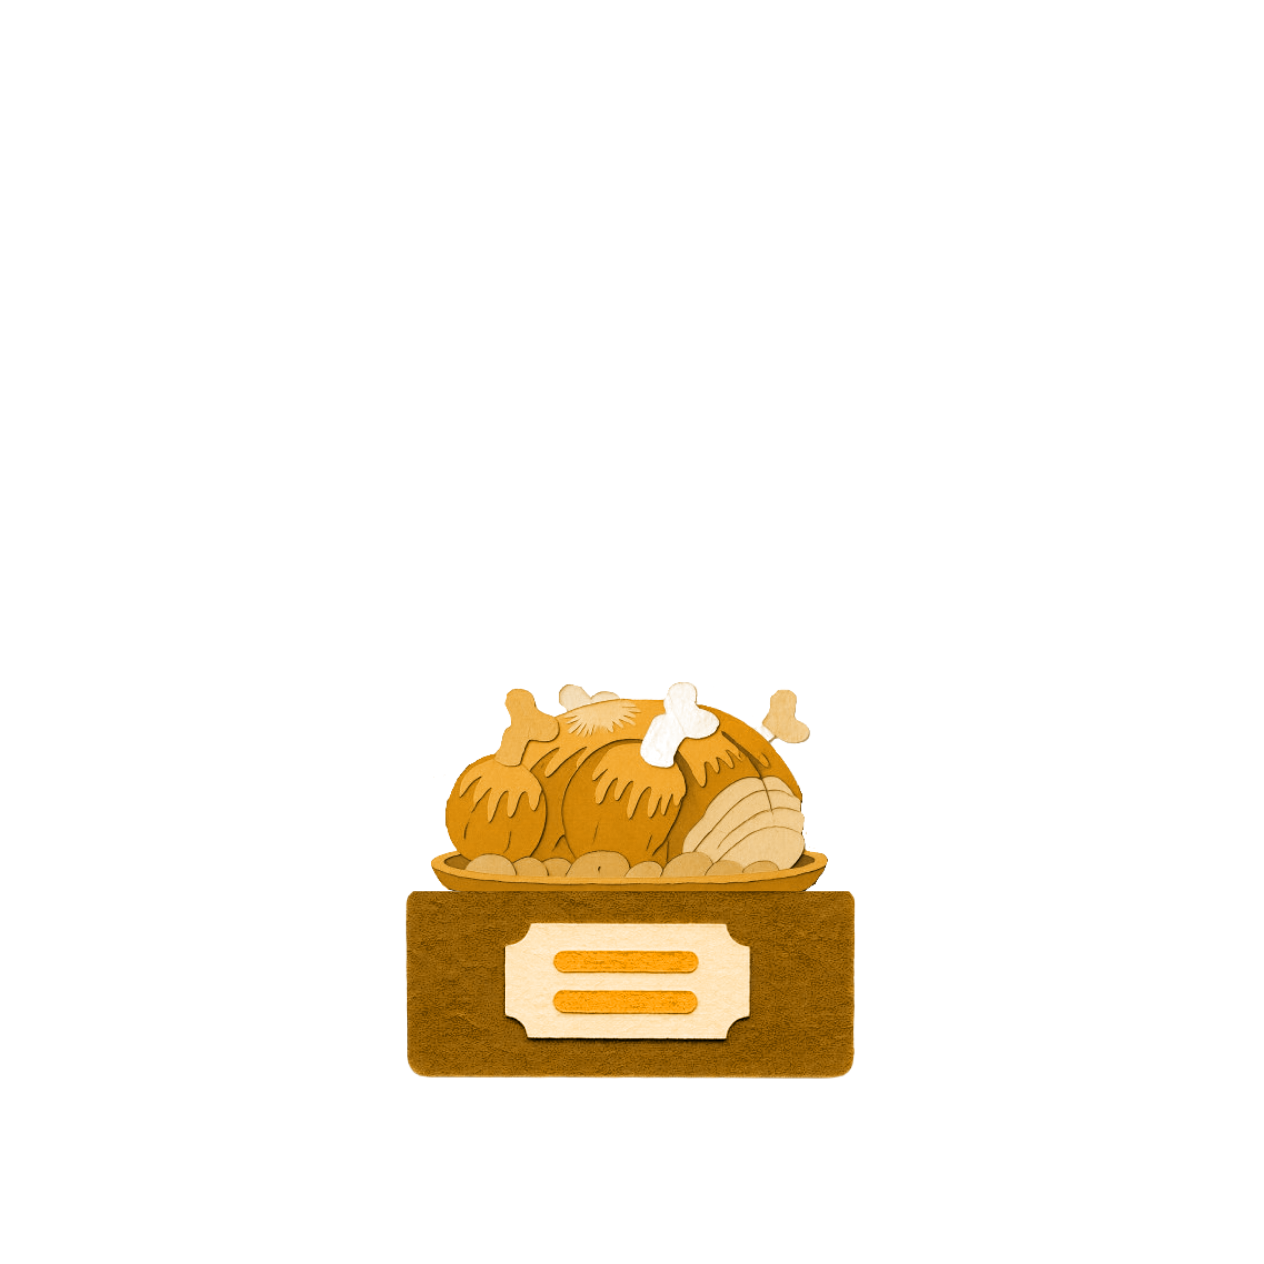
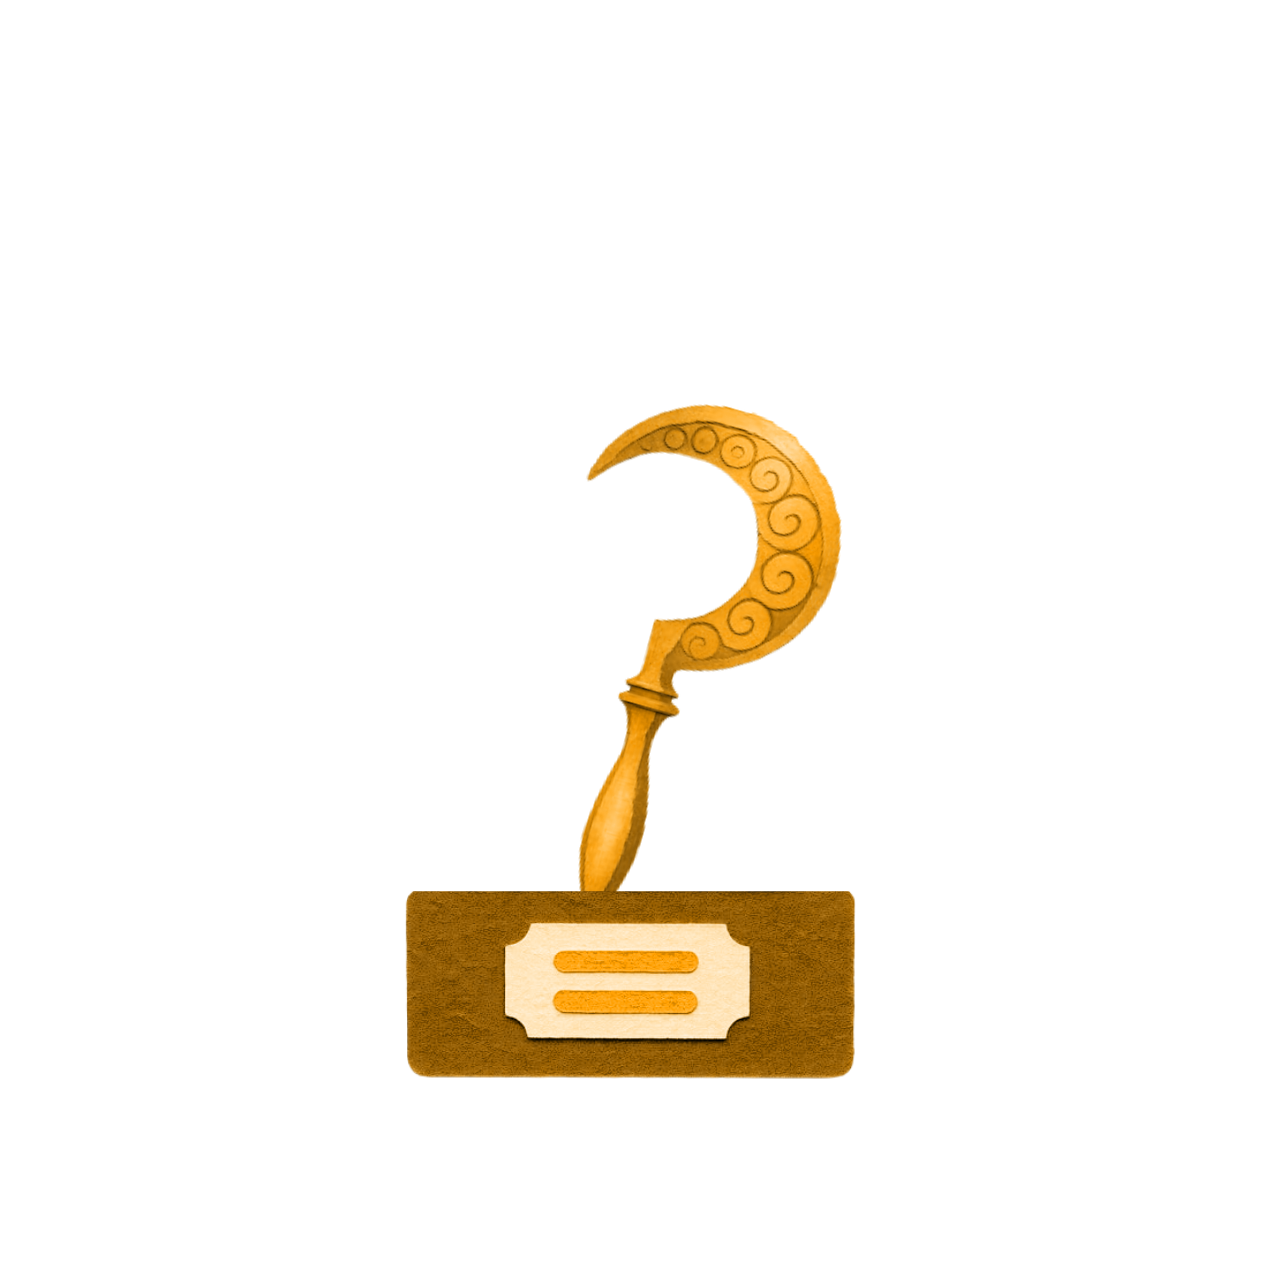
Trophee Gaulois Or : serpe d'or de Panoramix. Cache v179.

Changed region(s): [[0.3394, 0.3085, 0.6788, 0.7097]]

diff --git a/service-worker.js b/service-worker.js
@@ -3,7 +3,7 @@
 //   puis rafraichit en background. Prochain reload = nouvelle version.
 // - Requetes cross-origin (Firestore, iNaturalist, xeno-canto, Wikipedia, etc.) : reseau seul.
 // - Bump CACHE_VERSION quand on veut invalider volontairement.
-const CACHE_VERSION = 'v178-2026-09-15-gaulois-argent-ordralfabetix';
+const CACHE_VERSION = 'v179-2026-09-15-gaulois-or-serpe-panoramix';
 const CACHE_NAME = 'lmb-' + CACHE_VERSION;
 
 self.addEventListener('install', (e) => {
